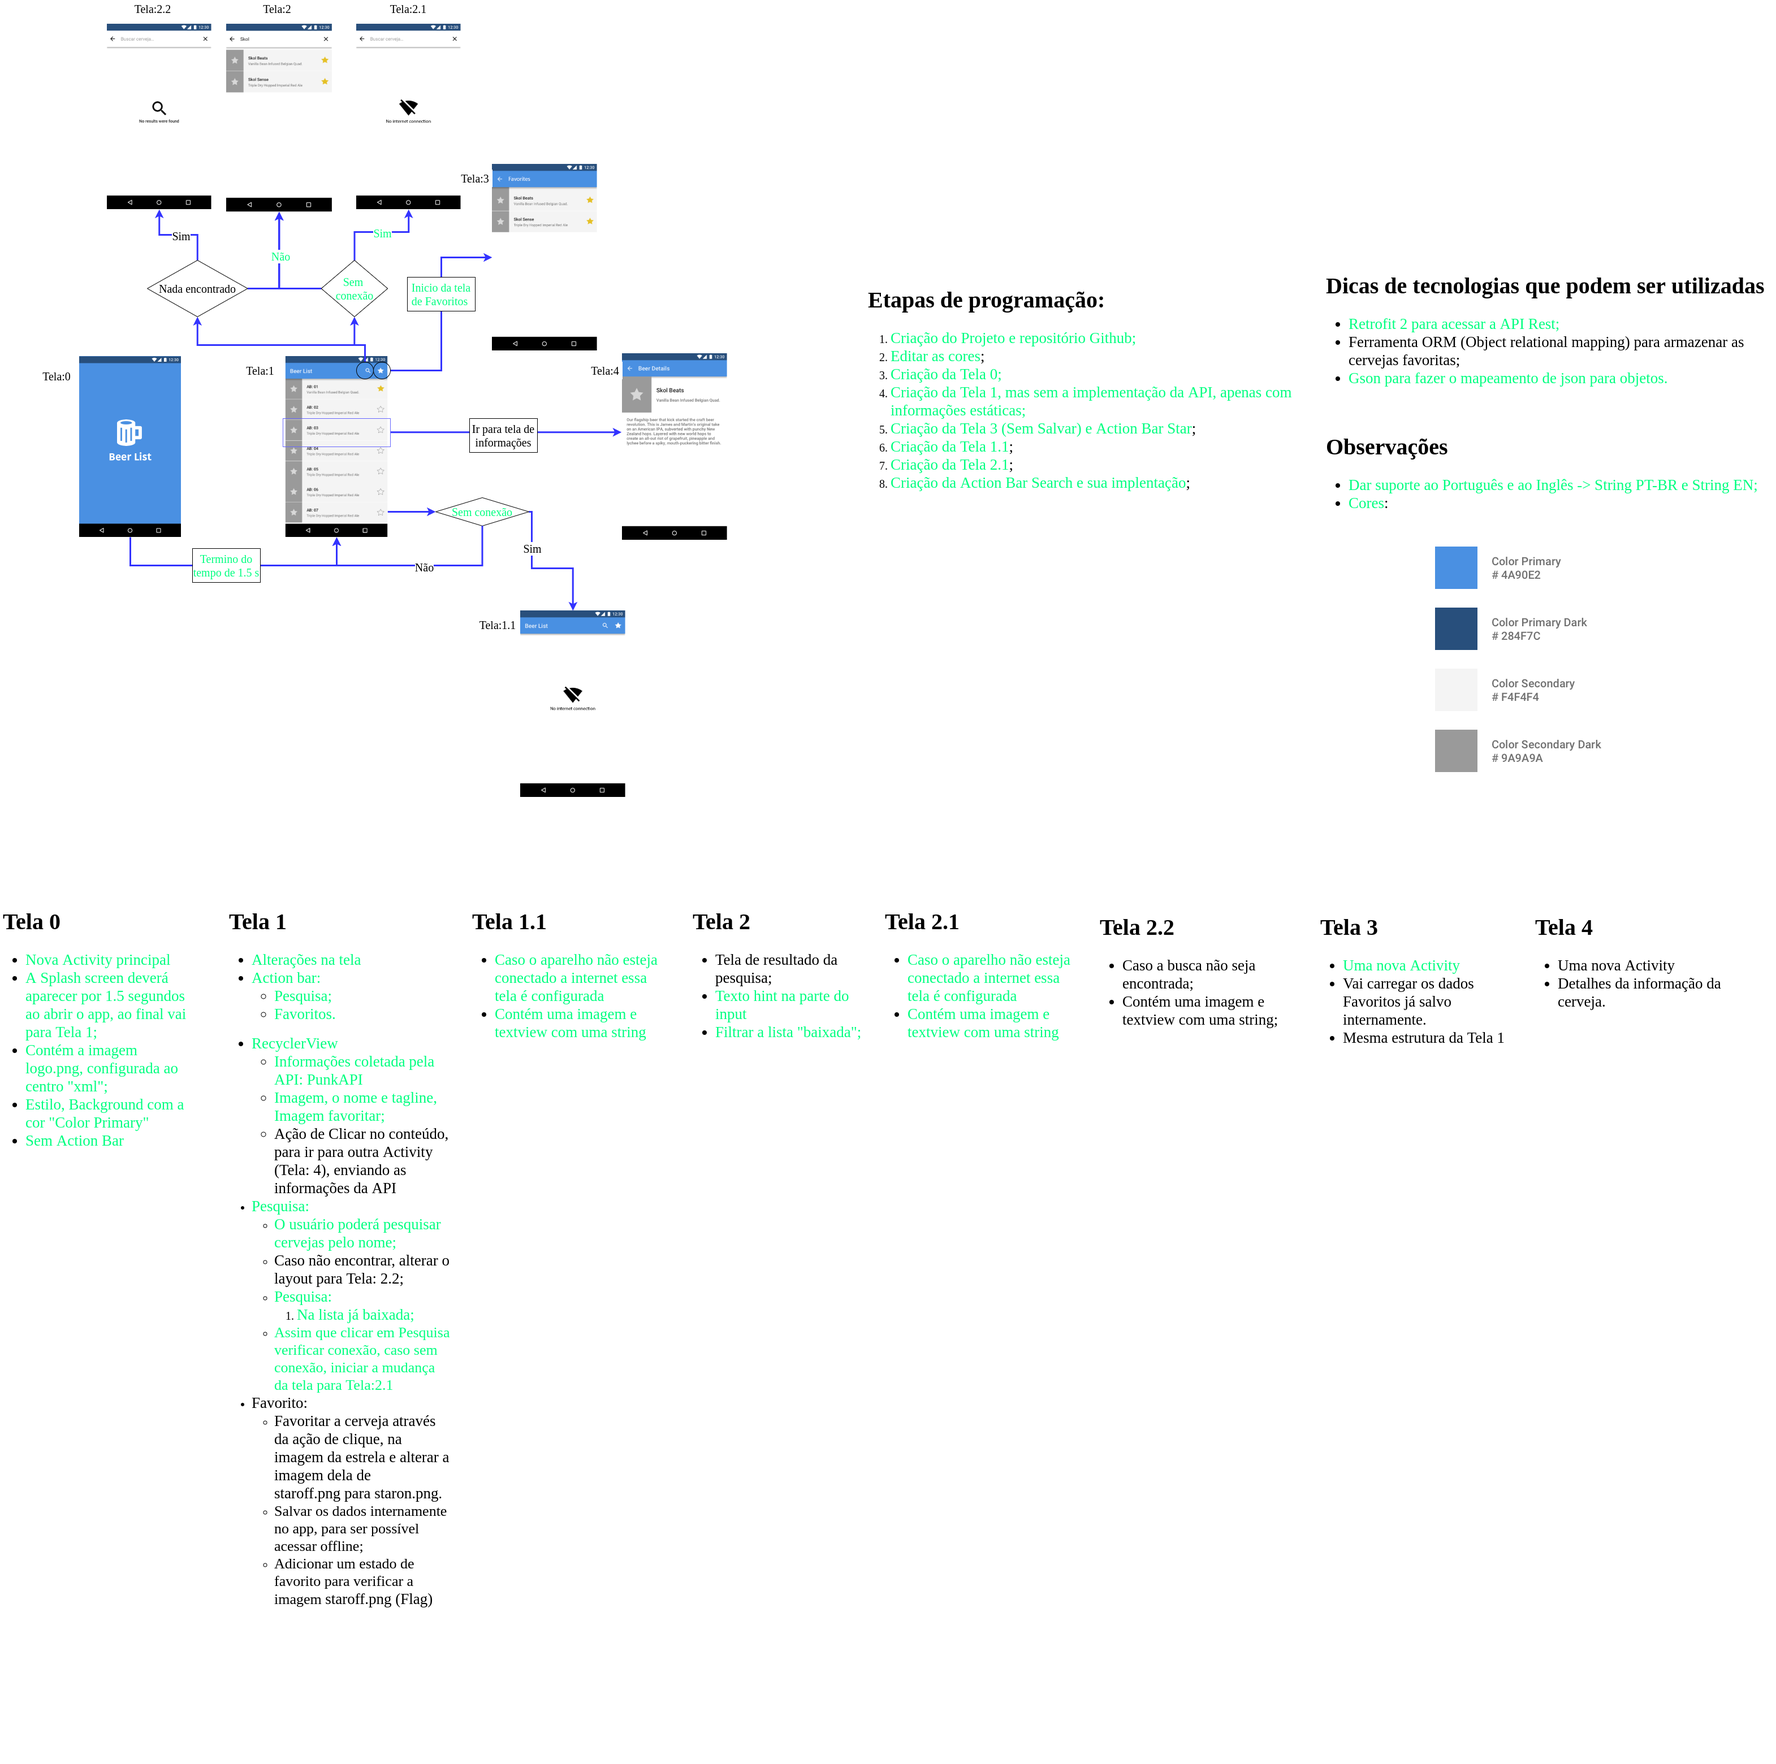
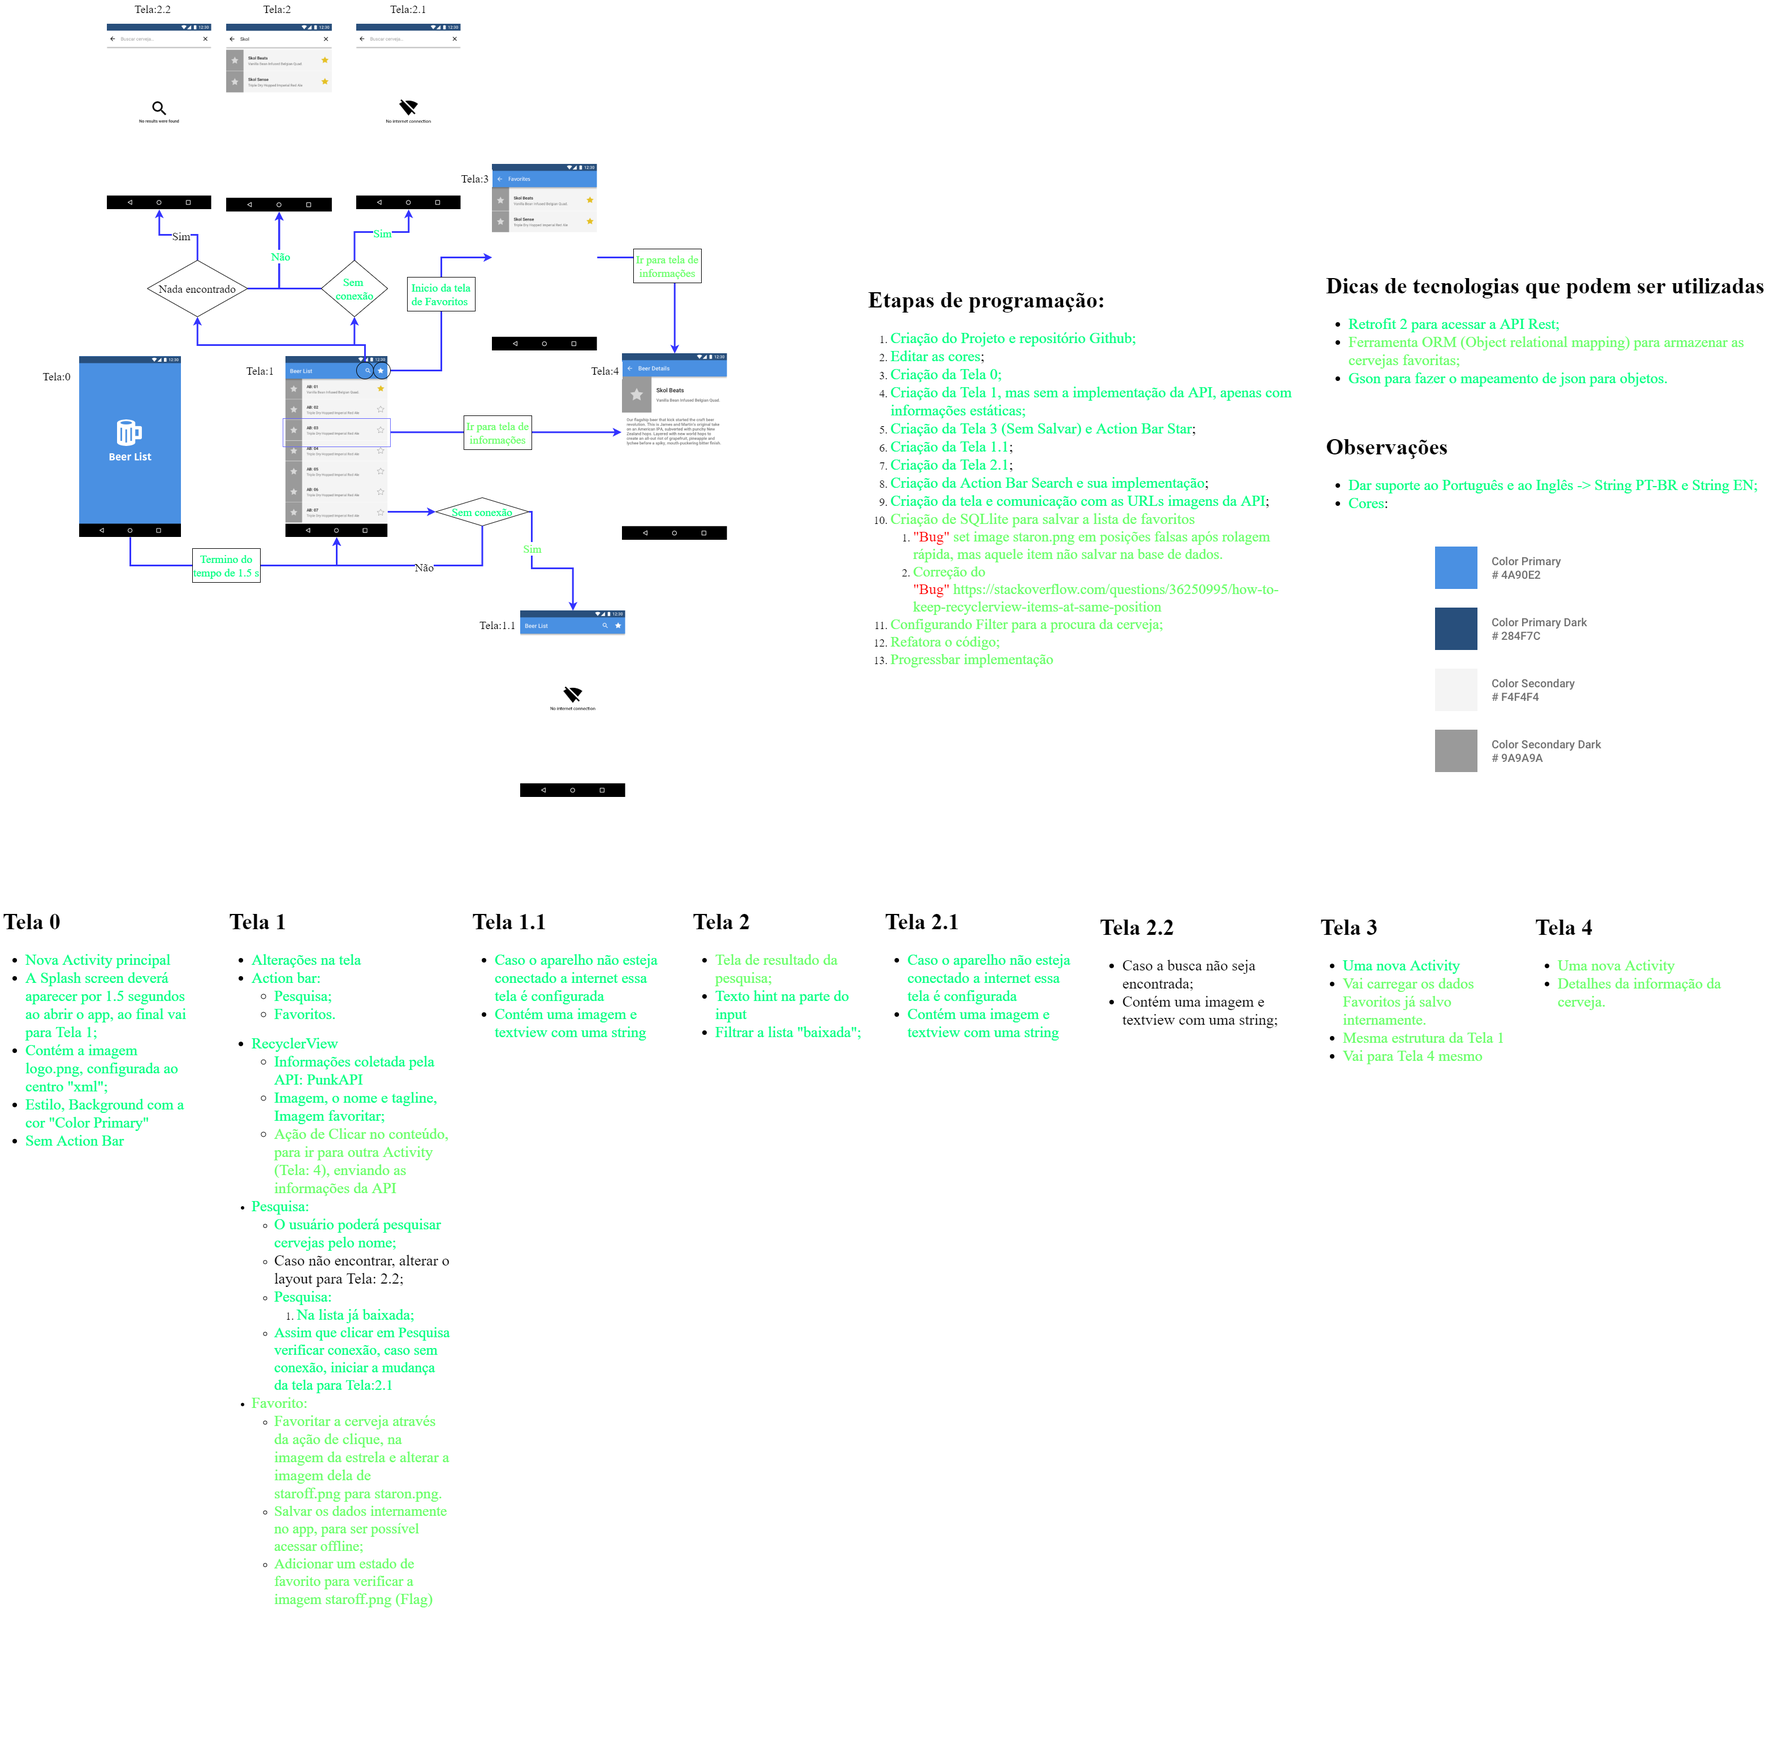
*Changes: - Implementation Filter for search list - Show Toast search empty

diff --git a/app/src/main/java/com/example/beerlist/Adapters/RecyclerAdapter.java b/app/src/main/java/com/example/beerlist/Adapters/RecyclerAdapter.java
@@ -1,10 +1,12 @@
 package com.example.beerlist.Adapters;
 
+import android.app.MediaRouteButton;
 import android.content.Context;
 import android.content.Intent;
 import android.content.SharedPreferences;
 import android.database.Cursor;
 import android.database.sqlite.SQLiteDatabase;
+import android.view.Gravity;
 import android.view.LayoutInflater;
 import android.view.View;
 import android.view.View.OnClickListener;
@@ -13,6 +15,8 @@ import android.widget.Button;
 import android.widget.Filter;
 import android.widget.Filterable;
 import android.widget.ImageView;
+import android.widget.LinearLayout;
+
 import android.widget.TextView;
 import android.widget.Toast;
 
@@ -36,120 +40,121 @@ import punkapi.Beer;
  * Class with the Adaptive Beer of the API
  */
 
-//public class RecyclerAdapter extends RecyclerView.Adapter<RecyclerAdapter.ViewHolder> implements Filterable {
-public class RecyclerAdapter extends RecyclerView.Adapter<RecyclerAdapter.ViewHolder> {
+public class RecyclerAdapter extends RecyclerView.Adapter<RecyclerAdapter.ViewHolder> implements Filterable {
 
     private ArrayList<Beer> beerList;
     private FavDB favDB;
+    private ArrayList<Beer> mFilteredbeerList;
     Context context;
+
 
     //Constructor
     public RecyclerAdapter(Context context,ArrayList<Beer> beerList) {
         this.context=context;
         this.beerList = beerList;
+        this.mFilteredbeerList = beerList;
+
     }
 
     @NonNull
     @Override
-    public ViewHolder onCreateViewHolder( ViewGroup parent, int viewType) {
-        favDB = new FavDB(context);
-        //Create table on first
-        SharedPreferences prefs = context.getSharedPreferences("prefs", Context.MODE_PRIVATE);
-        LayoutInflater layoutInflater = LayoutInflater.from(parent.getContext());
-        boolean firstStart = prefs.getBoolean("firstStart", true);
-        if (firstStart) {
-            createTableOnFirstStart();
-        }
+    public ViewHolder onCreateViewHolder(ViewGroup parent, int viewType) {
 
-        View view = layoutInflater.inflate(R.layout.row_item, parent, false);
-        return new ViewHolder(view);
+            favDB = new FavDB(context);
+            //Create table on first
+            SharedPreferences prefs = context.getSharedPreferences("prefs", Context.MODE_PRIVATE);
+            LayoutInflater layoutInflater = LayoutInflater.from(parent.getContext());
+            boolean firstStart = prefs.getBoolean("firstStart", true);
+            if (firstStart) {
+                createTableOnFirstStart();
+            }
+
+            View view = layoutInflater.inflate(R.layout.row_item, parent, false);
+
+            return new ViewHolder(view);
+
     }
-
-
 
     @Override
     public void onBindViewHolder(@NonNull final ViewHolder holder, final int position) {
 
-        final Beer itemBeer = beerList.get(position);
+            final Beer itemBeer = mFilteredbeerList.get(position);
+            //Read list data for check os favorites item
+            readCursorData(itemBeer,holder);
 
-        //Read list data for check os favorites item
-        readCursorData(itemBeer,holder);
+            holder.textName.setText(itemBeer.getName());
+            holder.textTagline.setText(itemBeer.getTagline());
 
-        holder.textName.setText(itemBeer.getName());
-        holder.textTagline.setText(itemBeer.getTagline());
+            //Implementation of load image with the API (https://github.com/bumptech/glide)
+            Glide.with(context)
+                    .load(itemBeer.getImageUrl())
+                    .apply(RequestOptions.placeholderOf(R.drawable.placeholder))
+                    .into(holder.imageView);
 
-        //Implementation of load image with the API (https://github.com/bumptech/glide)
-        Glide.with(context)
-                .load(itemBeer.getImageUrl())
-                .apply(RequestOptions.placeholderOf(R.drawable.placeholder))
-                .into(holder.imageView);
+            //Fix bug RecyclerView adapter showing wrong images in button when use Filter
+            holder.setIsRecyclable(false);
 
     }
 
-
     @Override
     public int getItemCount() {
-        return beerList.size();
+        return mFilteredbeerList.size();
     }
 
     //Bug fix RecyclerView adapter showing wrong images in button
     @Override
     public int getItemViewType(int position) {
-        return position;
+       return position;
     }
 
     //Bug fix RecyclerView adapter showing wrong images in button
     @Override
     public long getItemId(int position) {
+
         return position;
     }
 
-    //TODO: implementation seach
-    /*
-    @Override
     public Filter getFilter() {
 
-        return myFilter;
-    }
+        return new Filter() {
+            @Override
+            protected FilterResults performFiltering(CharSequence charSequence) {
 
-    Filter myFilter = new Filter() {
+                String charString = charSequence.toString();
 
-        //Automatic on background thread
-        @Override
-        protected FilterResults performFiltering(CharSequence charSequence) {
+                if (charString.isEmpty()) {
+                    mFilteredbeerList = beerList;
+                } else {
 
-            List<String> filteredList = new ArrayList<>();
+                    ArrayList<Beer> filteredList = new ArrayList<>();
 
+                    for (Beer beerItem : beerList) {
 
-            if (charSequence == null || charSequence.length() == 0) {
-                filteredList.addAll(nameListAll);
-
-            } else {
-                for (String movie: nameListAll) {
-                    if (movie.toLowerCase().contains(charSequence.toString().toLowerCase())) {
-                        filteredList.add(movie);
-
+                        if (beerItem.getName().toLowerCase().contains(charString.toLowerCase())) {
+                            filteredList.add(beerItem);
+                        }
                     }
+
+                    mFilteredbeerList = filteredList;
                 }
+
+                FilterResults filterResults = new FilterResults();
+                filterResults.values = mFilteredbeerList;
+                if(mFilteredbeerList.size()==0){
+                    Toast toast = Toast.makeText(context, context.getString(R.string.stringReturnSearch), Toast.LENGTH_SHORT);
+                    toast.setGravity(Gravity.CENTER, 0, 0);
+                    toast.show();
+                }
+                return filterResults;
             }
 
-            FilterResults filterResults = new FilterResults();
-
-            filterResults.values = filteredList;
-
-            return filterResults;
-        }
-
-        //Automatic on UI thread
-        @Override
-        protected void publishResults(CharSequence charSequence, FilterResults filterResults) {
-            nameList.clear();
-            nameList.addAll((Collection<? extends String>) filterResults.values);
-            notifyDataSetChanged();
-
-        }
-    };
-    */
+            @Override
+            protected void publishResults(CharSequence charSequence, FilterResults filterResults) {
+                mFilteredbeerList = (ArrayList<Beer>) filterResults.values;
+                notifyDataSetChanged();
+            }
+        };
+    }
 
      class ViewHolder extends RecyclerView.ViewHolder implements OnClickListener {
         Button favBtn;
@@ -164,13 +169,14 @@ public class RecyclerAdapter extends RecyclerView.Adapter<RecyclerAdapter.ViewHo
             textTagline = itemView.findViewById(R.id.textTagline);
             favBtn = itemView.findViewById(R.id.imageButtonFavorite);
 
+
             //Button to favorite list item
             favBtn.setOnClickListener(new View.OnClickListener() {
                 @Override
                 public void onClick(View view) {
                     int position = getAdapterPosition();
 
-                    Beer itemBeer = beerList.get(position);
+                    Beer itemBeer = mFilteredbeerList.get(position);
                     //Check status Favorite
                     if (itemBeer.getIsFavourite().equals("0")){
                         itemBeer.setFavourite("1");
@@ -184,7 +190,7 @@ public class RecyclerAdapter extends RecyclerView.Adapter<RecyclerAdapter.ViewHo
                         //Change background Button
                         favBtn.setBackgroundResource(R.drawable.staron);
                         favBtn.setSelected(true);
-                        Toast.makeText(view.getContext(), context.getString(R.string.stringToastAdd) + ": \n" + beerList.get(getAdapterPosition()).getName(), Toast.LENGTH_SHORT).show();
+                        Toast.makeText(view.getContext(), context.getString(R.string.stringToastAdd) + ": \n" + mFilteredbeerList.get(getAdapterPosition()).getName(), Toast.LENGTH_SHORT).show();
                     }else {
                         //Remove information in database
                         itemBeer.setFavourite("0");
@@ -192,7 +198,7 @@ public class RecyclerAdapter extends RecyclerView.Adapter<RecyclerAdapter.ViewHo
                         //Change background Button
                         favBtn.setBackgroundResource(R.drawable.staroff);
                         favBtn.setSelected(false);
-                        Toast.makeText(view.getContext(), context.getString(R.string.stringToastRemove) + ": \n" + beerList.get(getAdapterPosition()).getName(), Toast.LENGTH_SHORT).show();
+                        Toast.makeText(view.getContext(), context.getString(R.string.stringToastRemove) + ": \n" + mFilteredbeerList.get(getAdapterPosition()).getName(), Toast.LENGTH_SHORT).show();
                     }
 
                 }
@@ -205,10 +211,10 @@ public class RecyclerAdapter extends RecyclerView.Adapter<RecyclerAdapter.ViewHo
         public void onClick(View view) {
             //Send information to the Activity BeerDetails
             final Intent intent = new Intent(context, BeerDetails.class);
-            intent.putExtra("NAME_BEER", beerList.get(getAdapterPosition()).getName());
-            intent.putExtra("TAGLINE_BEER", beerList.get(getAdapterPosition()).getTagline());
-            intent.putExtra("DESCRIPTION_BEER", beerList.get(getAdapterPosition()).getDescription());
-            intent.putExtra("IMAGEURL_BEER", beerList.get(getAdapterPosition()).getImageUrl());
+            intent.putExtra("NAME_BEER", mFilteredbeerList.get(getAdapterPosition()).getName());
+            intent.putExtra("TAGLINE_BEER", mFilteredbeerList.get(getAdapterPosition()).getTagline());
+            intent.putExtra("DESCRIPTION_BEER", mFilteredbeerList.get(getAdapterPosition()).getDescription());
+            intent.putExtra("IMAGEURL_BEER", mFilteredbeerList.get(getAdapterPosition()).getImageUrl());
             context.startActivity(intent);
         }
 

diff --git a/app/src/main/java/com/example/beerlist/Activities/MainActivity.java b/app/src/main/java/com/example/beerlist/Activities/MainActivity.java
@@ -7,6 +7,8 @@ import android.net.NetworkInfo;
 import android.os.Bundle;
 import android.view.Menu;
 import android.view.MenuItem;
+import android.view.View;
+import android.widget.ProgressBar;
 
 import androidx.appcompat.app.AppCompatActivity;
 import androidx.appcompat.widget.SearchView;
@@ -34,6 +36,10 @@ import retrofit2.Response;
 public class MainActivity extends AppCompatActivity {
 
     private RecyclerView recyclerView;
+    private RecyclerAdapter mAdapter;
+    private ProgressBar progressBar;
+
+    private boolean flag_status_list = false;
 
     @Override
     protected void onCreate(Bundle savedInstanceState) {
@@ -42,6 +48,8 @@ public class MainActivity extends AppCompatActivity {
         //Condition for changing the layout.xml
         if (isNetworkAvailable()){
             setContentView(R.layout.activity_main);
+            progressBar = findViewById(R.id.progressbar);
+            initViews();
 
             //Create handle for the RetrofitInstance interface
             PunkAPIService service = ControlBeerList.getPunkAPIClient();
@@ -66,15 +74,20 @@ public class MainActivity extends AppCompatActivity {
 
     }
 
-    private void generateDataList(ArrayList<Beer> beerList) {
-
+    private void initViews(){
         //Connects the application to the layout and configuration and add data to the RecyclerAdapter
         recyclerView = findViewById(R.id.recyclerView);
         recyclerView.setHasFixedSize(true);
         recyclerView.addItemDecoration(new DividerItemDecoration(this, DividerItemDecoration.VERTICAL));
         recyclerView.setLayoutManager(new LinearLayoutManager(this));
-        recyclerView.setAdapter(new RecyclerAdapter(this, beerList));
+    }
 
+    private void generateDataList(ArrayList<Beer> beerList) {
+
+        mAdapter = new RecyclerAdapter(this, beerList);
+        progressBar.setVisibility(View.GONE);
+        flag_status_list = true;
+        recyclerView.setAdapter(mAdapter);
     }
 
 
@@ -98,9 +111,13 @@ public class MainActivity extends AppCompatActivity {
             @Override
             public boolean onQueryTextChange(String newText) {
                 //Disabling search
-                //recyclerAdapter.getFilter().filter(newText);
+                if(flag_status_list){
+                    mAdapter.getFilter().filter(newText);
+                    return true;
+                }else{
+                    return false;
+                }
 
-                return false;
             }
         });
         return super.onCreateOptionsMenu(menu);
@@ -120,8 +137,8 @@ public class MainActivity extends AppCompatActivity {
 
             case R.id.action_search:
                 //Check connection
-                if (!isNetworkAvailable()){
-                    setContentView(R.layout.layout_no_connection);
+                if (!isNetworkAvailable()&&flag_status_list){
+                      setContentView(R.layout.layout_no_connection);
                 }
 
 

diff --git a/app/src/main/java/com/example/beerlist/Activities/Favorite.java b/app/src/main/java/com/example/beerlist/Activities/Favorite.java
@@ -6,6 +6,7 @@ import android.database.sqlite.SQLiteDatabase;
 import android.os.Bundle;
 import android.view.Menu;
 import android.view.MenuItem;
+import android.widget.Toast;
 
 import androidx.appcompat.app.AppCompatActivity;
 import androidx.core.app.NavUtils;
@@ -90,11 +91,7 @@ public class Favorite extends AppCompatActivity {
     public boolean onOptionsItemSelected(MenuItem item) {
         switch (item.getItemId()) {
             case android.R.id.home:
-                //Reload Intent for updated list remove
-                Intent intent = new Intent(this, MainActivity.class);
-                NavUtils.navigateUpTo(this, intent);
-                finish();
-                return true;
+                onBackPressed();
         }
 
         return super.onOptionsItemSelected(item);
@@ -104,4 +101,15 @@ public class Favorite extends AppCompatActivity {
         return true;
     }
 
+    //Action back
+    @Override
+    public void onBackPressed() {
+
+        //setResult(RESULT_OK);
+        Intent intent = new Intent(this, MainActivity.class);
+        NavUtils.navigateUpTo(this, intent);
+        finish();
+
+        super.onBackPressed();
+    }
 }
